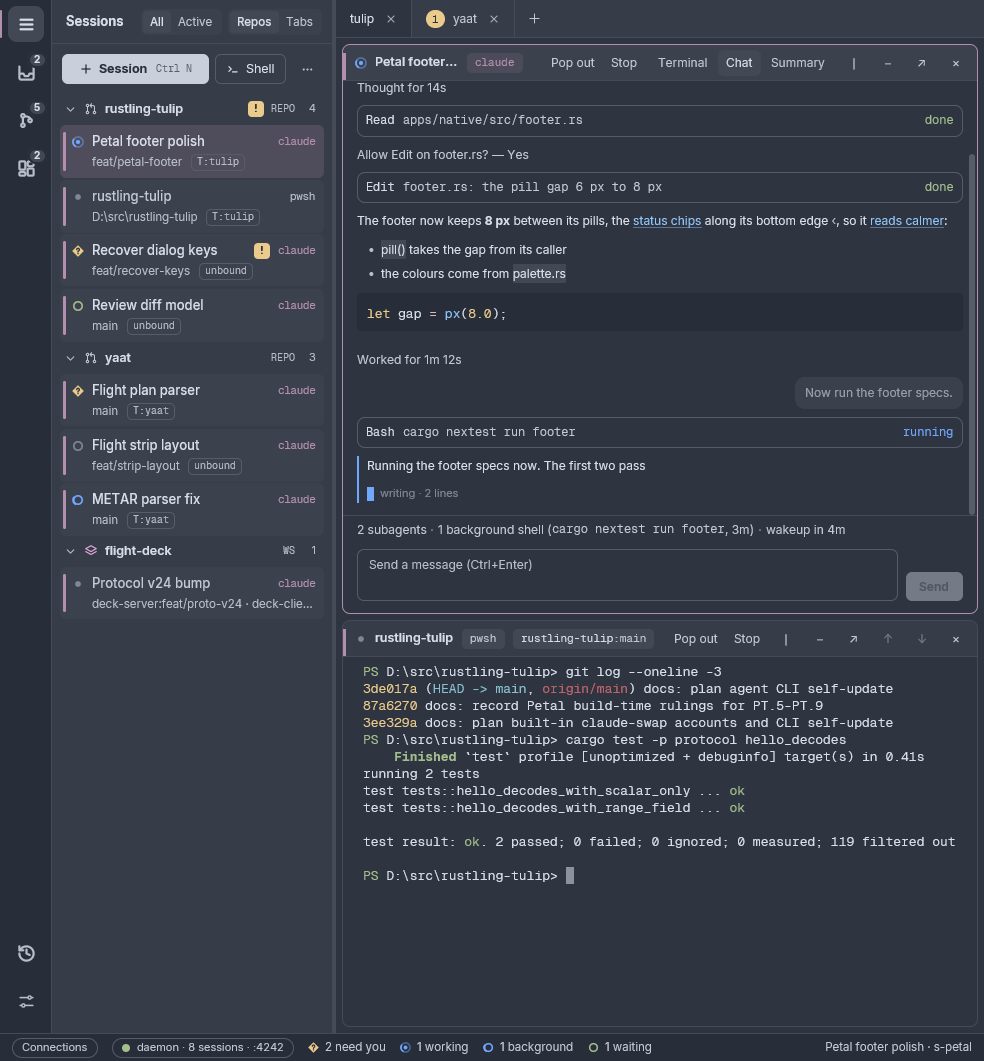
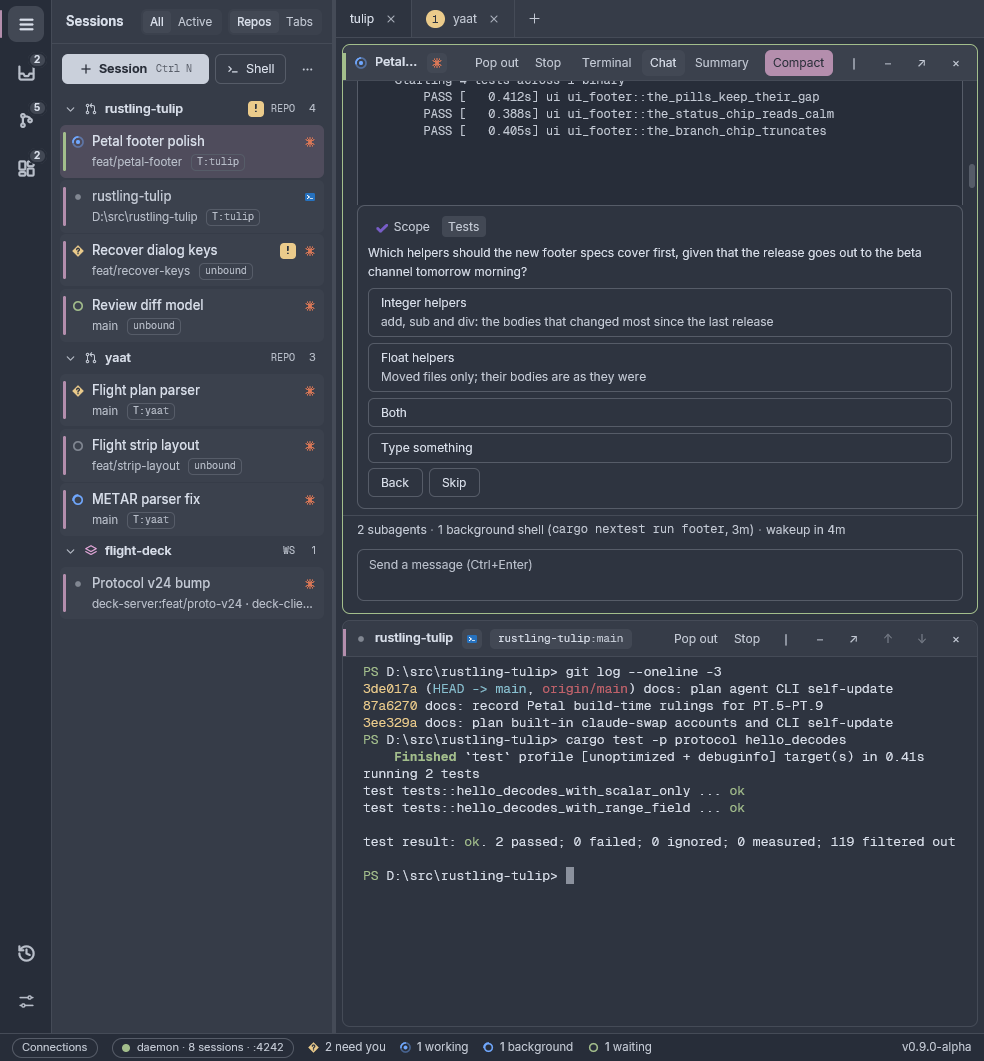
docs: refresh the README for v0.9.0-alpha

diff --git a/README.md b/README.md
@@ -41,6 +41,7 @@ It is alpha software, Windows only for now.
 - A Bash or PowerShell card shows its command one statement per line, and a command that writes a log offers Tail: a scrolling box under the card that follows the file as it grows.
 - The Summary view (Ctrl+Shift+U) shows a session as one line per stretch of work, each opening into its messages.
 - Long replies written as expandable text open a short phrase into its longer form with a click, one level at a time.
+- Compact mode, on by default, folds a run of reads, searches and commands into one line you can open. The chat column keeps a readable width on wide panes, and each turn's final answer sits in its own box.
 
 ![A Claude session's pane in the chat view, with its conversation, a permission card and the message box](docs/images/chat.png)
 
@@ -58,6 +59,7 @@ It is alpha software, Windows only for now.
 - The host picker lists your tailnet machines and the hosts you saved, and the app connects to every saved host you have switched on when it starts.
 - A new device has to be approved on the host PC with a one-time pairing code. The Devices list shows who is connected and when each device was last seen, and Block cuts a device off until you forget it.
 - Ctrl+click a file path in a remote session's terminal, or use Fetch file…, to copy the file to this PC and open it. An HTML page brings its images and stylesheets with it.
+- Ctrl+click a folder path to fetch the whole folder, with progress and Cancel, leaving out `.git`, `node_modules` and caches. A fetched file's notice offers Fetch whole folder, and a fetched folder's offers Reveal.
 - When a host's session count changed since your last visit, the app offers to keep your layout, open all its sessions or start empty.
 
 ### Remote access over SSH
@@ -79,7 +81,7 @@ It is alpha software, Windows only for now.
 
 ### Text and Markdown viewer
 
-- Ctrl+Shift+click a file path in the terminal and it opens in a read-only viewer tab with line numbers and syntax colours, scrolled to the line the path names.
+- Ctrl+Shift+click a file path in the terminal and it opens in a read-only viewer tab with line numbers and syntax colours, scrolled to the line the path names. A bare file name after a full path on the same line opens from that path's folder.
 - Markdown files open rendered (headings, lists, task boxes, tables, code blocks), with a Rendered / Source toggle. Links open, and `#heading` links scroll to the heading.
 - Ctrl+F finds text, a click or drag selects whole lines to copy, and a tab re-reads its file when you come back to it and the file has changed.
 
@@ -104,6 +106,9 @@ It is alpha software, Windows only for now.
 - Start the daemon at login, the folder worktrees go in, and Manage worktrees to clean up old ones.
 - Appearance: themes for the whole window and its terminals (built-in ones, Nord by default, or your own), session accent colours, terminal and interface fonts (Inter, Geist, Schibsted Grotesk or any installed font), the interface's text size and weight, the terminal's weight and frame width per app, repo, workspace or session, font sizes per session or per tab, and the window title.
 - The Themes window previews every theme with its contrast check, edits any colour of your own copy, and exports or imports theme files.
+- A search box finds any setting on any page (Ctrl+F), and changes wait for OK or Apply; Cancel or Esc discards them.
+- The Chat section sets Compact or Comfortable and the chat's maximum width, and Diagnostics has a Detailed logging switch and Open logs folder.
+- Update notices have a What's new button with the release notes for every version since the one you had.
 
 ![The Settings window on its General page](docs/images/settings.png)
 
@@ -113,9 +118,18 @@ It is alpha software, Windows only for now.
 
 1. Install [Claude Code](https://github.com/anthropics/claude-code) and check that `claude` runs from a terminal: rustling-tulip finds it on your `PATH`.
 2. Download `rustling-tulip-<version>-setup.exe` from the [latest release](https://github.com/leftos/rustling-tulip/releases/latest) and run it. It installs for your user only, with no administrator prompt, and can start the daemon when you log in.
-3. The installer is not code-signed yet, so Windows SmartScreen warns on first run: choose More info, then Run anyway.
+3. The installer and the app are signed with a verified publisher, so Windows names who made them. While the signature is new, SmartScreen may still warn on first run: choose More info, then Run anyway.
 
 Remote access over Tailscale needs [Tailscale](https://tailscale.com/) on both PCs, signed in to the same tailnet, with HTTPS certificates turned on for it. Remote access over SSH needs only an SSH login to the other PC.
+
+## What's new in v0.9.0-alpha
+
+- Ctrl+click a folder path in a remote host's terminal to fetch the whole folder, or fetch a fetched file's whole folder from its notice.
+- Settings has a search box that finds any setting, and OK, Apply and Cancel so changes wait until you confirm them.
+- The chat stays a readable width, sets each final answer apart, and folds runs of tool calls into one line in Compact mode.
+- The installer and the app are signed with a verified publisher, and update notices show what's new since your version.
+
+The full list is in the [release notes](https://github.com/leftos/rustling-tulip/releases/tag/v0.9.0-alpha).
 
 ## What's new in v0.8.1-alpha
 
